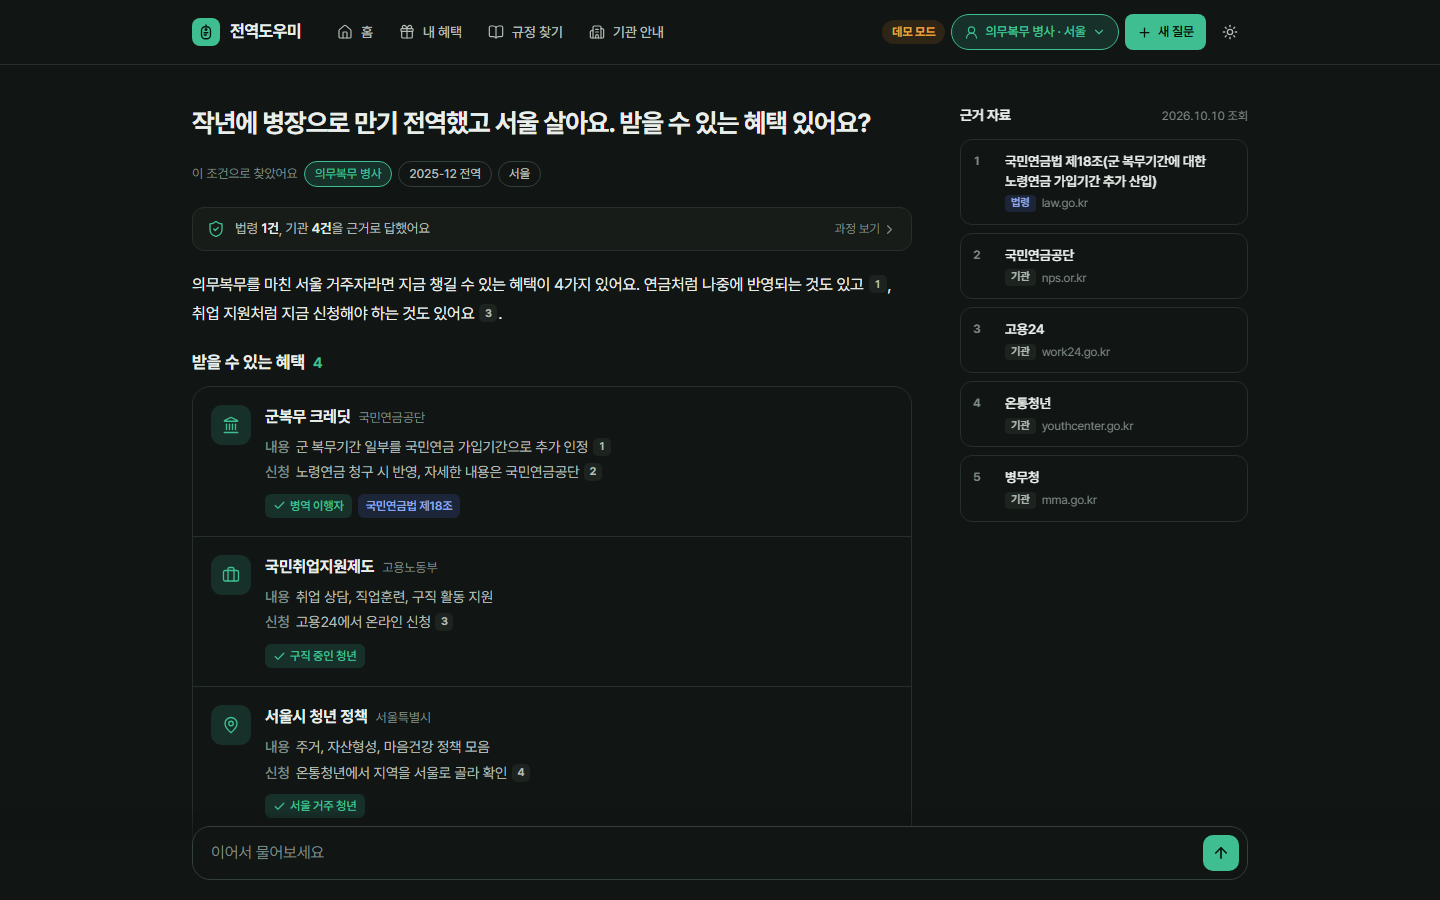
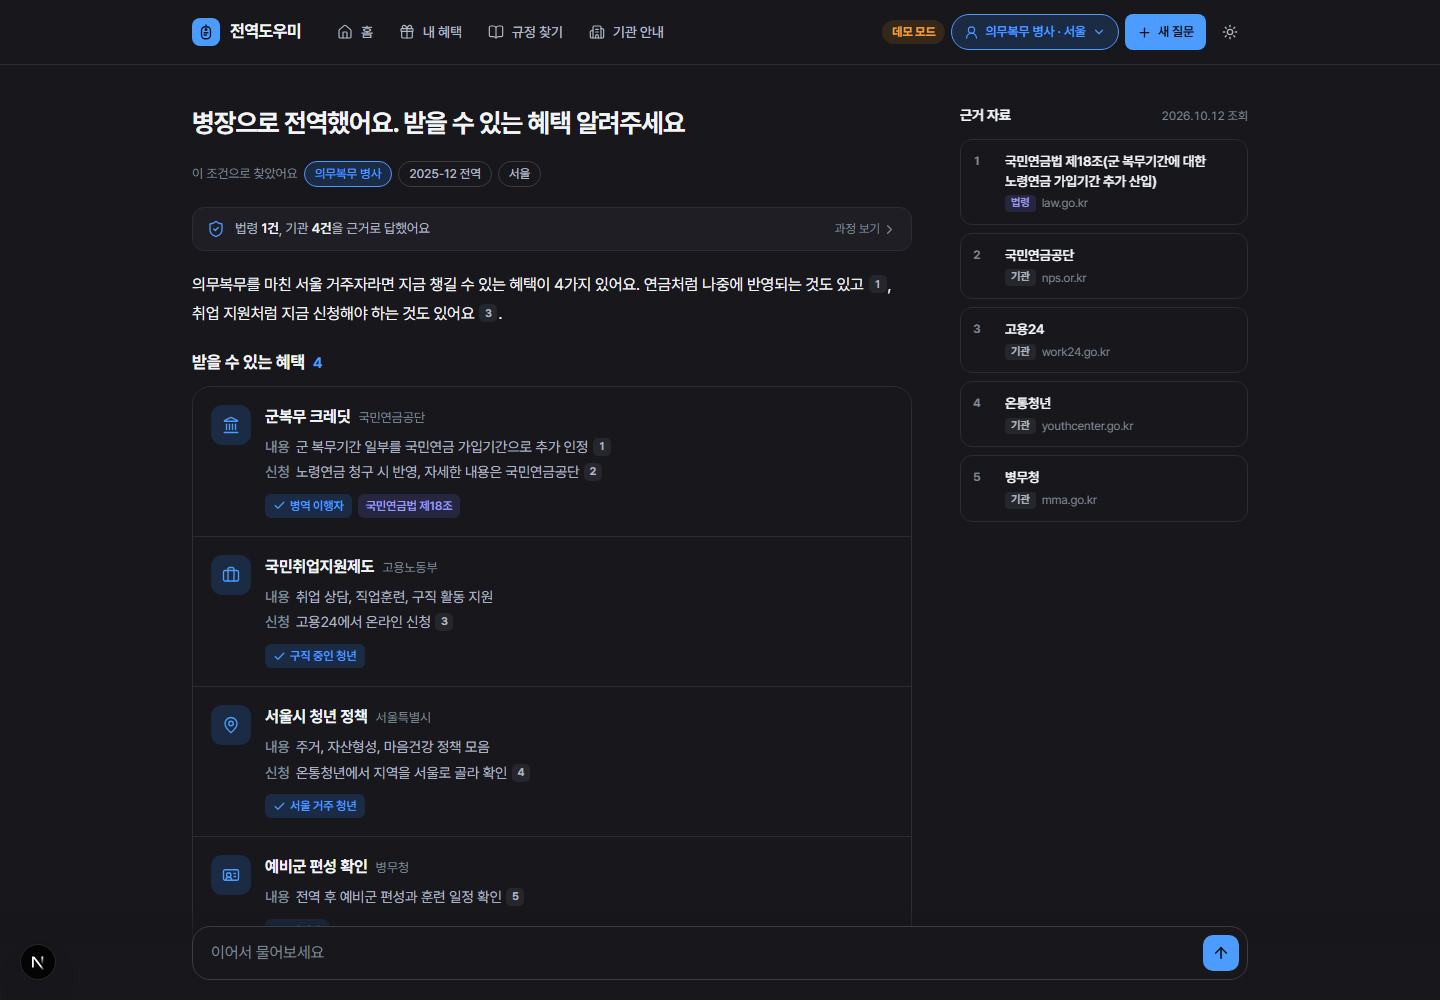
style: 초록 테마를 무난한 파랑 + 중립 회색으로 변경
- 포인트 색 파랑(#2a6fdb, 흰 바탕 대비 4.8:1), 회색은 색기 없는 중립 톤
- 법령 배지는 남보라로 기관 배지와 구분
- 다크 모드 버튼 글자는 어둡게 (밝은 파랑 위 흰 글자는 대비 부족)
- 파비콘, README 스크린샷(데스크톱) 갱신

diff --git a/frontend/src/app/globals.css b/frontend/src/app/globals.css
@@ -1,41 +1,42 @@
 @import "tailwindcss";
 
-/* 전역도우미 — 흰 바탕에 초록 하나만 포인트로 쓰고, 나머지는 초록 기운이 도는 회색.
+/* 전역도우미 — 무난하고 모던하게: 사용자(대부분 20대 전역자)가 매일 쓰는 금융·생활 앱처럼
+   또렷한 파랑 하나만 포인트로 쓰고, 나머지는 색기 없는 회색. 법령 근거만 남보라로 구분한다.
    색은 토큰으로만 정의하고, 다크 모드는 토큰 값만 바꾼다.
    (시스템 설정을 따르되, 사용자가 고르면 html[data-theme]가 우선) */
 :root {
   --bg: #ffffff;
-  --bg-soft: #f6f8f7;
-  --bg-sunken: #eef2f0;
-  --line: #e3e8e5;
-  --line-strong: #cfd7d3;
-  --fg: #17201c;
-  --fg-2: #4a5550;
-  --fg-3: #87918c;
-  --accent: #0f7a5a;
-  --accent-soft: #e6f3ee;
+  --bg-soft: #f9fafb;
+  --bg-sunken: #f2f4f6;
+  --line: #e5e8eb;
+  --line-strong: #d1d6db;
+  --fg: #191f28;
+  --fg-2: #4e5968;
+  --fg-3: #8b95a1;
+  --accent: #2a6fdb; /* 흰 바탕 대비 4.8:1 (작은 글자 기준 4.5 이상) */
+  --accent-soft: #e8f3ff;
   --accent-ink: #ffffff;
-  --warn: #b26b00;
-  --warn-soft: #fdf3e2;
-  --law: #3559b8;
-  --law-soft: #ebf0fb;
-  --shadow: 0 1px 2px rgb(23 32 28 / 0.04), 0 8px 24px rgb(23 32 28 / 0.06);
+  --warn: #c26a00;
+  --warn-soft: #fff4e5;
+  --law: #5b5bd6;
+  --law-soft: #efeffc;
+  --shadow: 0 1px 2px rgb(25 31 40 / 0.04), 0 8px 24px rgb(25 31 40 / 0.06);
   color-scheme: light;
 }
 @media (prefers-color-scheme: dark) {
   :root:not([data-theme="light"]) {
-    --bg: #111513; --bg-soft: #171c19; --bg-sunken: #1d2420; --line: #26302b; --line-strong: #34403a;
-    --fg: #e9eeeb; --fg-2: #b3bdb8; --fg-3: #7d8883;
-    --accent: #3fbf91; --accent-soft: #17302a; --accent-ink: #08130f;
-    --warn: #e6a640; --warn-soft: #2e2516; --law: #8ea8ec; --law-soft: #1d2538;
+    --bg: #17171c; --bg-soft: #1e1e24; --bg-sunken: #26262d; --line: #2c2c35; --line-strong: #3c3c47;
+    --fg: #f2f4f6; --fg-2: #b0b8c1; --fg-3: #7e8794;
+    --accent: #4c9bff; --accent-soft: #1c2b44; --accent-ink: #0a1424;
+    --warn: #f0a33a; --warn-soft: #33281a; --law: #9b9bf2; --law-soft: #26263f;
     --shadow: none; color-scheme: dark;
   }
 }
 :root[data-theme="dark"] {
-  --bg: #111513; --bg-soft: #171c19; --bg-sunken: #1d2420; --line: #26302b; --line-strong: #34403a;
-  --fg: #e9eeeb; --fg-2: #b3bdb8; --fg-3: #7d8883;
-  --accent: #3fbf91; --accent-soft: #17302a; --accent-ink: #08130f;
-  --warn: #e6a640; --warn-soft: #2e2516; --law: #8ea8ec; --law-soft: #1d2538;
+  --bg: #17171c; --bg-soft: #1e1e24; --bg-sunken: #26262d; --line: #2c2c35; --line-strong: #3c3c47;
+  --fg: #f2f4f6; --fg-2: #b0b8c1; --fg-3: #7e8794;
+  --accent: #4c9bff; --accent-soft: #1c2b44; --accent-ink: #0a1424;
+  --warn: #f0a33a; --warn-soft: #33281a; --law: #9b9bf2; --law-soft: #26263f;
   --shadow: none; color-scheme: dark;
 }
 

diff --git a/frontend/src/components/TurnView.tsx b/frontend/src/components/TurnView.tsx
@@ -225,7 +225,7 @@ function Feedback({ turn, onFeedback }: { turn: Turn; onFeedback: FeedbackHandle
             className="w-full resize-none rounded-lg border border-line-strong bg-bg px-3 py-2 text-sm"
           />
           <div className="flex gap-1.5">
-            <button type="submit" className={`${base} border-accent bg-accent text-white`}>
+            <button type="submit" className={`${base} border-accent bg-accent text-accent-ink`}>
               보내기
             </button>
             <button
